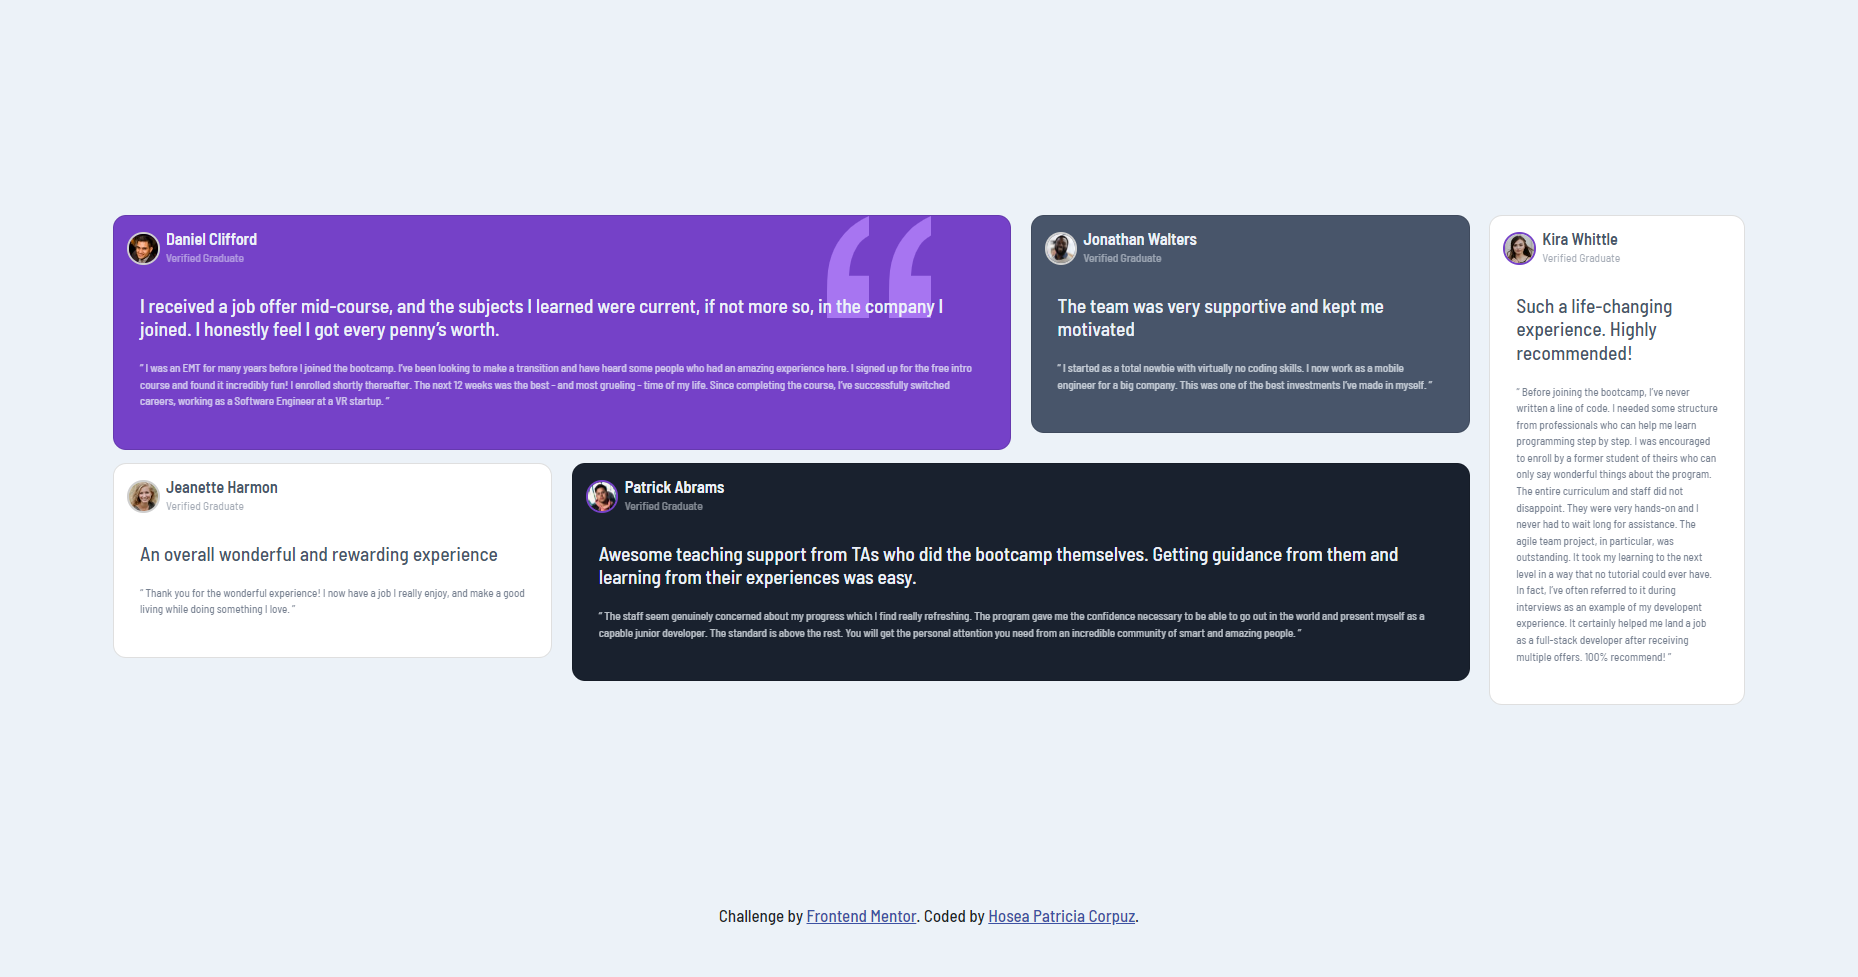
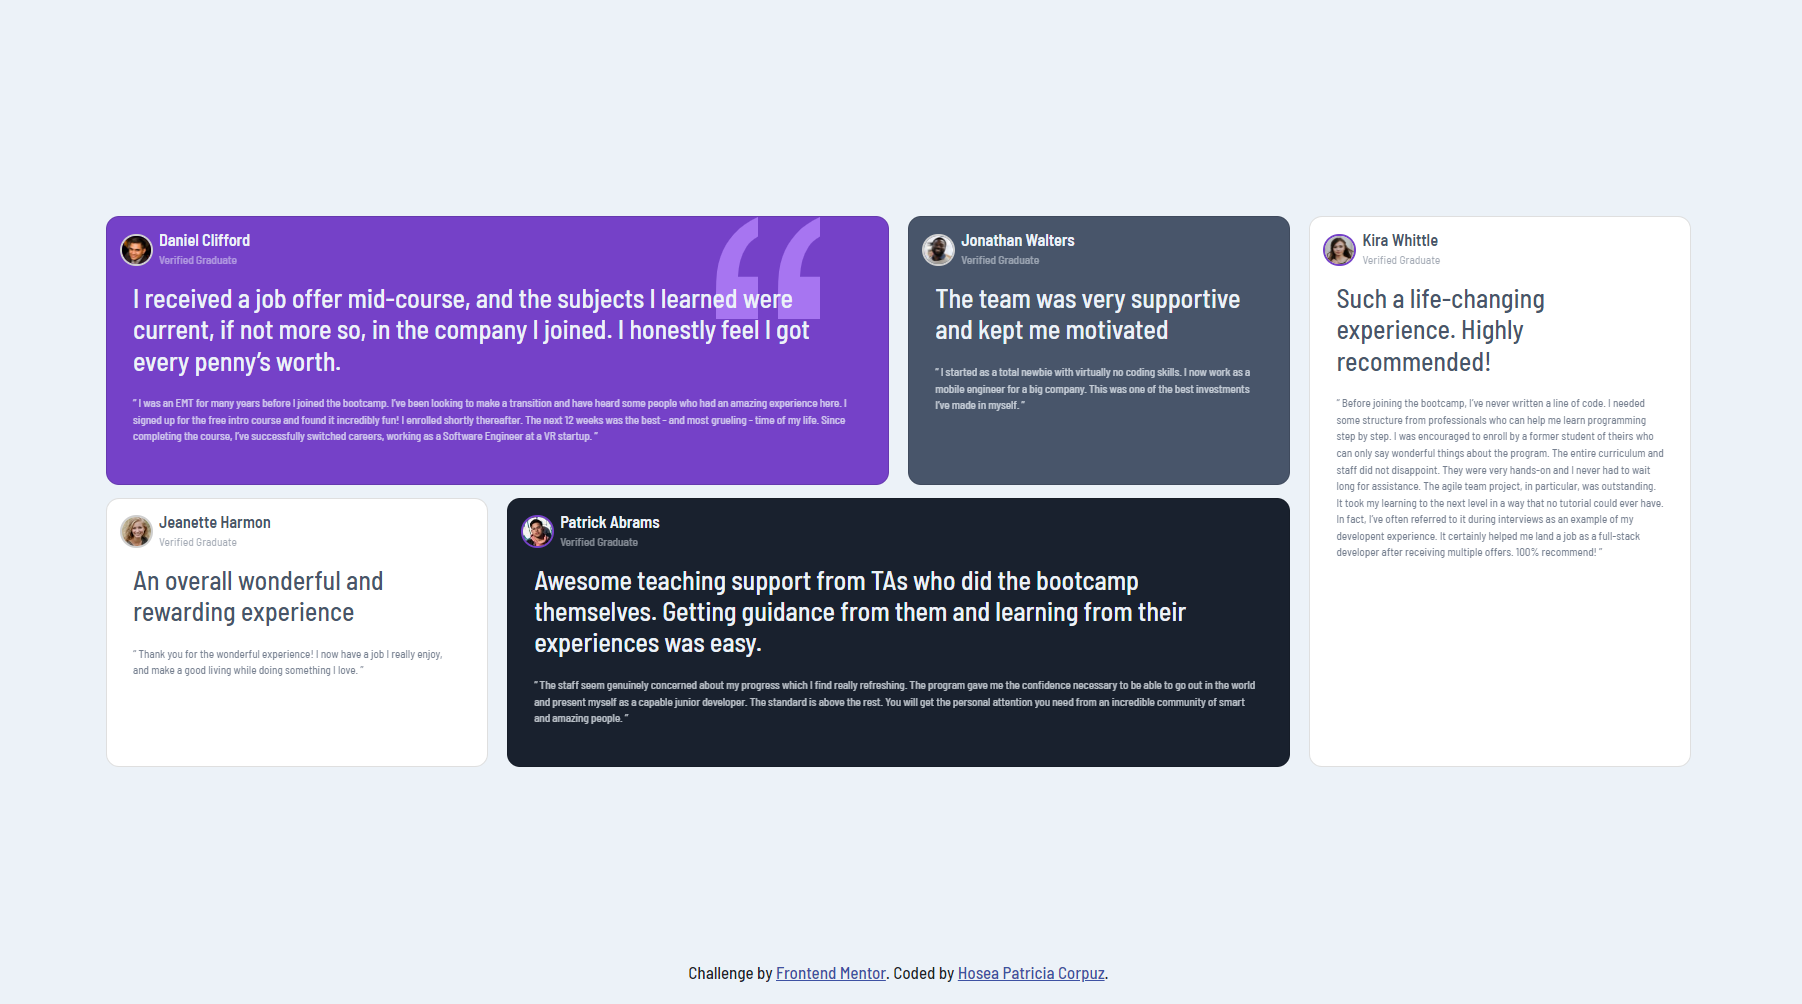
improve accessibility

Changed region(s): [[0.0622, 0.2149, 0.9323, 0.7677], [0.3729, 0.9212, 0.6215, 0.9826]]

diff --git a/index.html b/index.html
@@ -23,9 +23,9 @@
         <main class="main-container">
             <div class="container-fluid d-grid gap-3 mx-auto my-0 py-4 px-3">
                 <div class="row justify-content-center">
-                    <div class="col-lg-10 col-md-12">
+                    <div class="col-lg-9 col-md-12">
                         <div class="row sm-pb-3">
-                            <div class="col-md-8 pb-3">
+                            <div class="col-md-8 pb-3 d-flex align-items-stretch">
                                 <div class="card card-primary">
                                     <div class="d-flex align-items-center">
                                         <div class="card-header-img">
@@ -54,7 +54,7 @@
                                     </div>
                                 </div>
                             </div>
-                            <div class="col-md-4 pb-3">
+                            <div class="col-md-4 pb-3 d-flex align-items-stretch">
                                 <div class="card card-gray">
                                     <div class="d-flex align-items-center">
                                         <div class="card-header-img">
@@ -77,7 +77,7 @@
                             </div>
                         </div>
                         <div class="row">
-                        <div class="col-md-4 pb-3">
+                        <div class="col-md-4 pb-3 d-flex align-items-stretch">
                             <div class="card card-light">
                                 <div class="d-flex align-items-center">
                                     <div class="card-header-img">
@@ -97,7 +97,7 @@
                                 </div>
                             </div>
                         </div>
-                        <div class="col-md-8 pb-3">
+                        <div class="col-md-8 pb-3 d-flex align-items-stretch">
                             <div class="card card-dark">
                                 <div class="d-flex align-items-center">
                                     <div class="card-header-img img-violet-border">
@@ -127,7 +127,7 @@
                         </div>
                       </div>
                     </div>
-                    <div class="col-lg-2 col-md-12 pb-3">
+                    <div class="col-lg-3 col-md-12 pb-3 d-flex align-items-stretch">
                         <div class="card card-long">
                         <div class="d-flex align-items-center">
                             <div class="card-header-img img-violet-border">
@@ -157,7 +157,7 @@
                         </div>
                         </div>
                     </div>
-                  </div>
+                </div>
             </div>
             <div class="attribution">
                 Challenge by <a href="https://www.frontendmentor.io?ref=challenge" target="_blank">Frontend Mentor</a>. 
